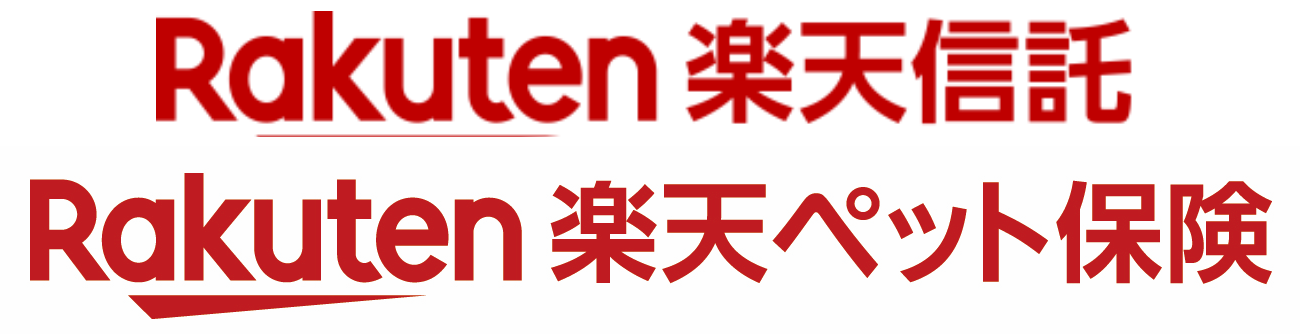
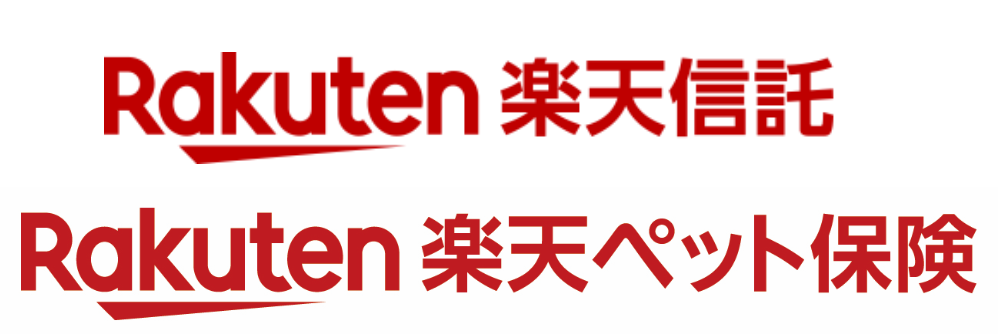
up

diff --git a/docs/demo02/symbiosis.html b/docs/demo02/symbiosis.html
@@ -631,7 +631,7 @@
 					<!-- Block1 -->
 					<div class="blo1">
 						<div class="wrap-pic-blo1 bo-rad-10 hov-img-zoom pos-relative">
-								<img src="assets/img/symbiosis/l_1.png">
+								<img src="assets/img/symbiosis/rakuten_g.png">
 
 							<div class="time-blog">
 								CARE PETS杉並世田谷店
